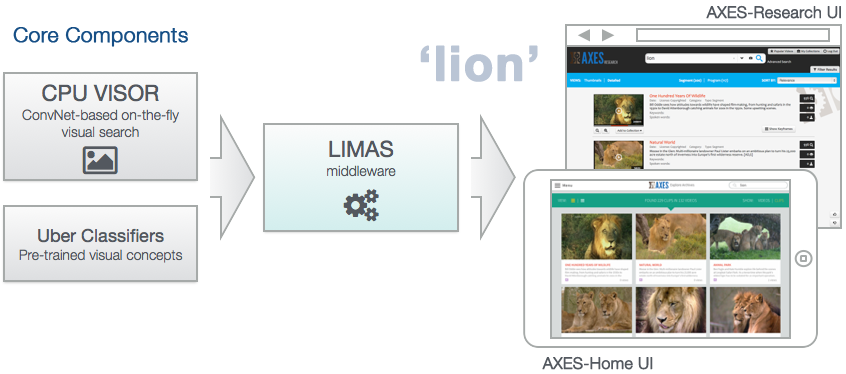
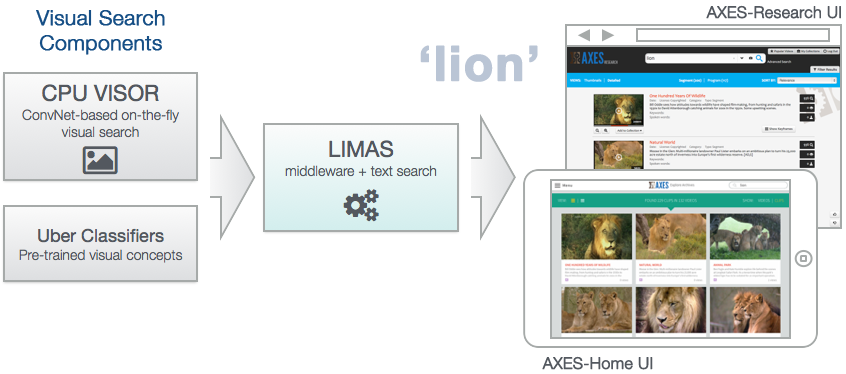
Updated architecture diagram and removed references to 'core components'

Changed region(s): [[0.0, 0.0294, 0.2459, 0.1471], [0.3381, 0.4412, 0.5225, 0.4706]]

diff --git a/README.md b/README.md
@@ -22,7 +22,7 @@ multimedia retrieval system over any dataset of video data.
 
 ![AXES-LITE Architecture](resources/architecture.png)
 
-Currently the following core components are supported:
+Currently the following visual search components are supported:
 
  - `cpuvisor-srv` - On-the-fly visual category search from the University of Oxford
  - `uberclassifiers` - Uberclassifiers from KU Leuven
